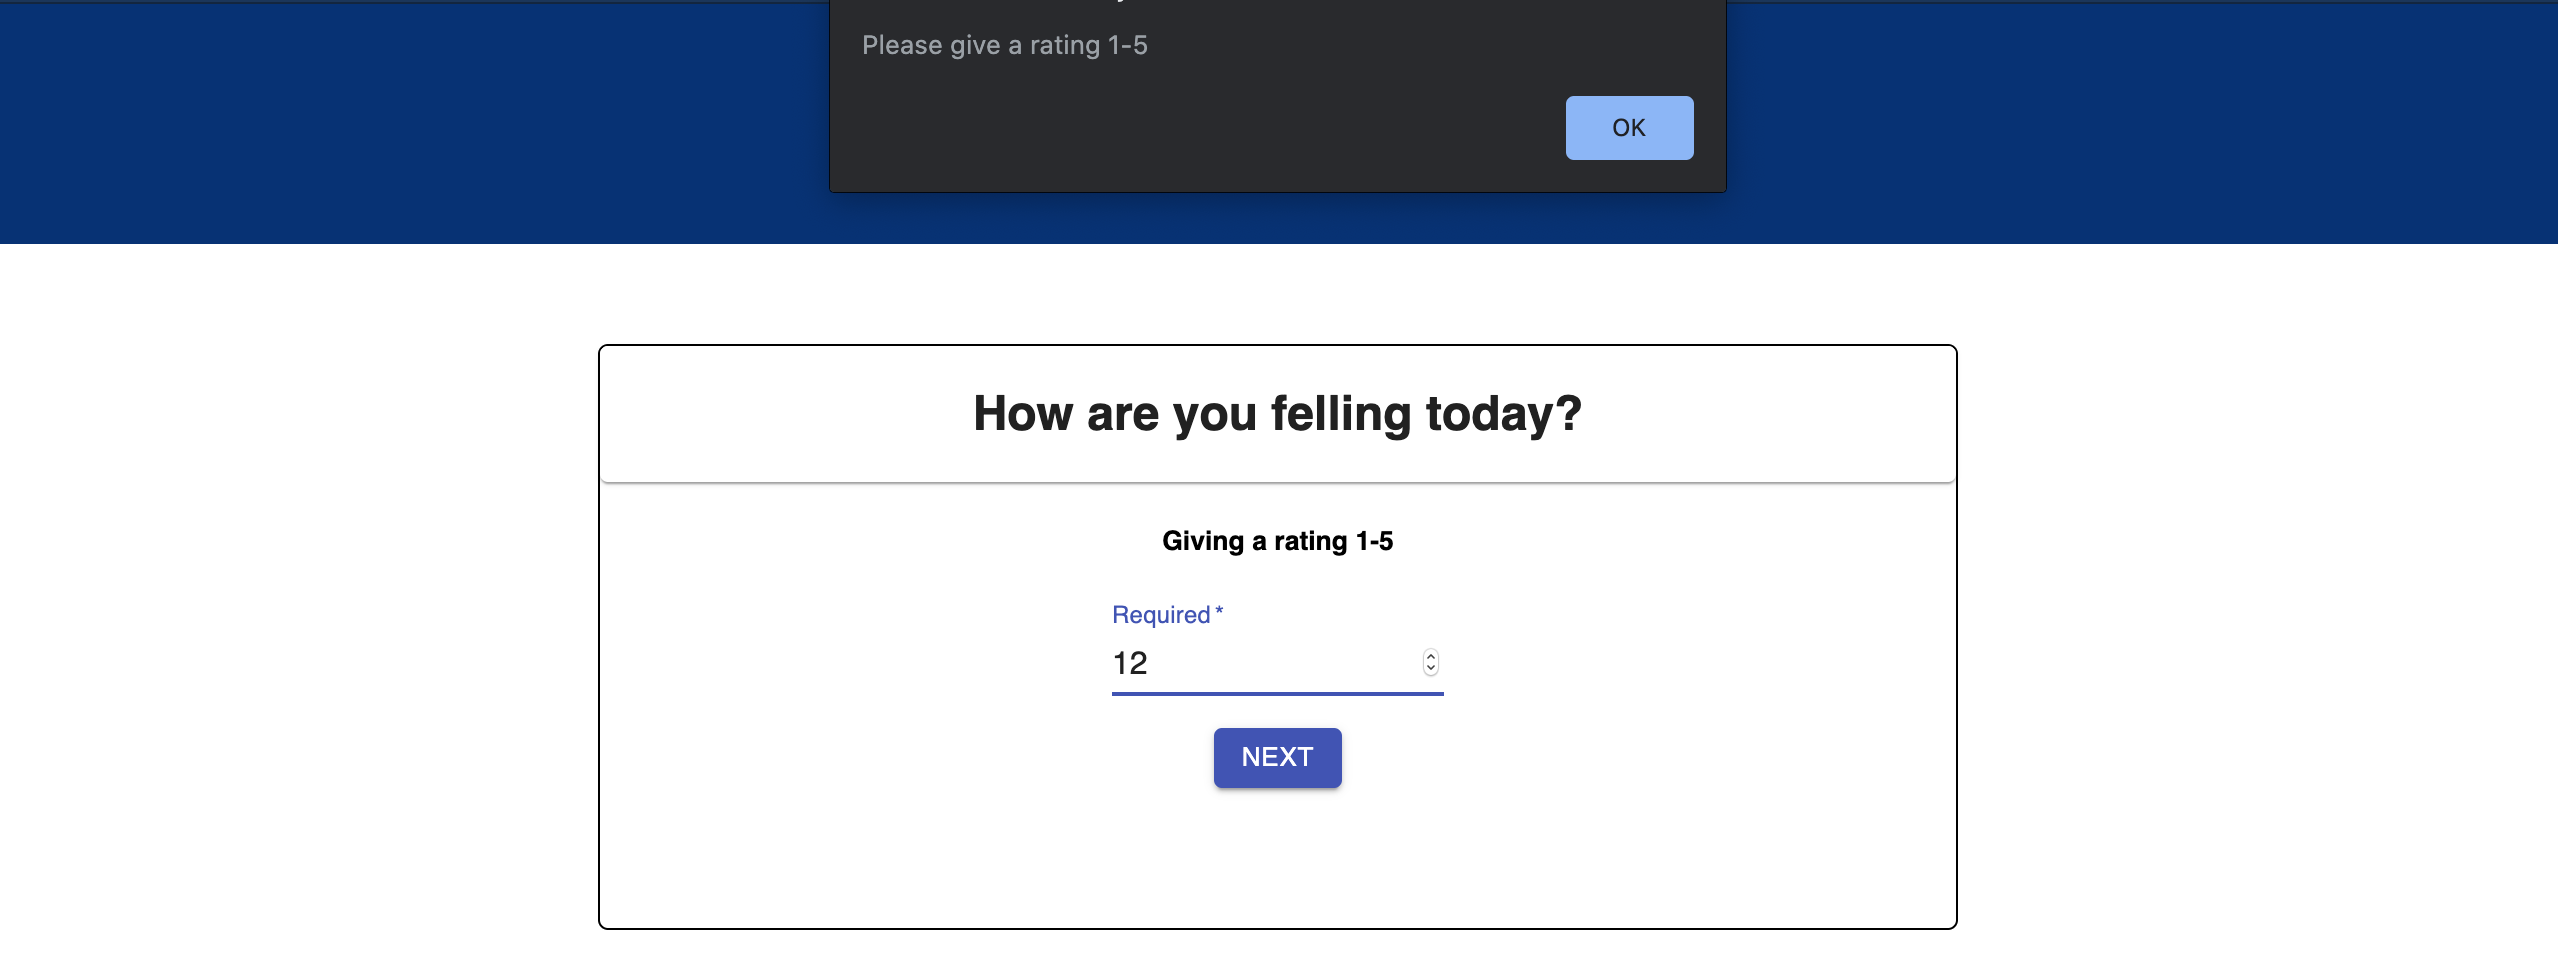
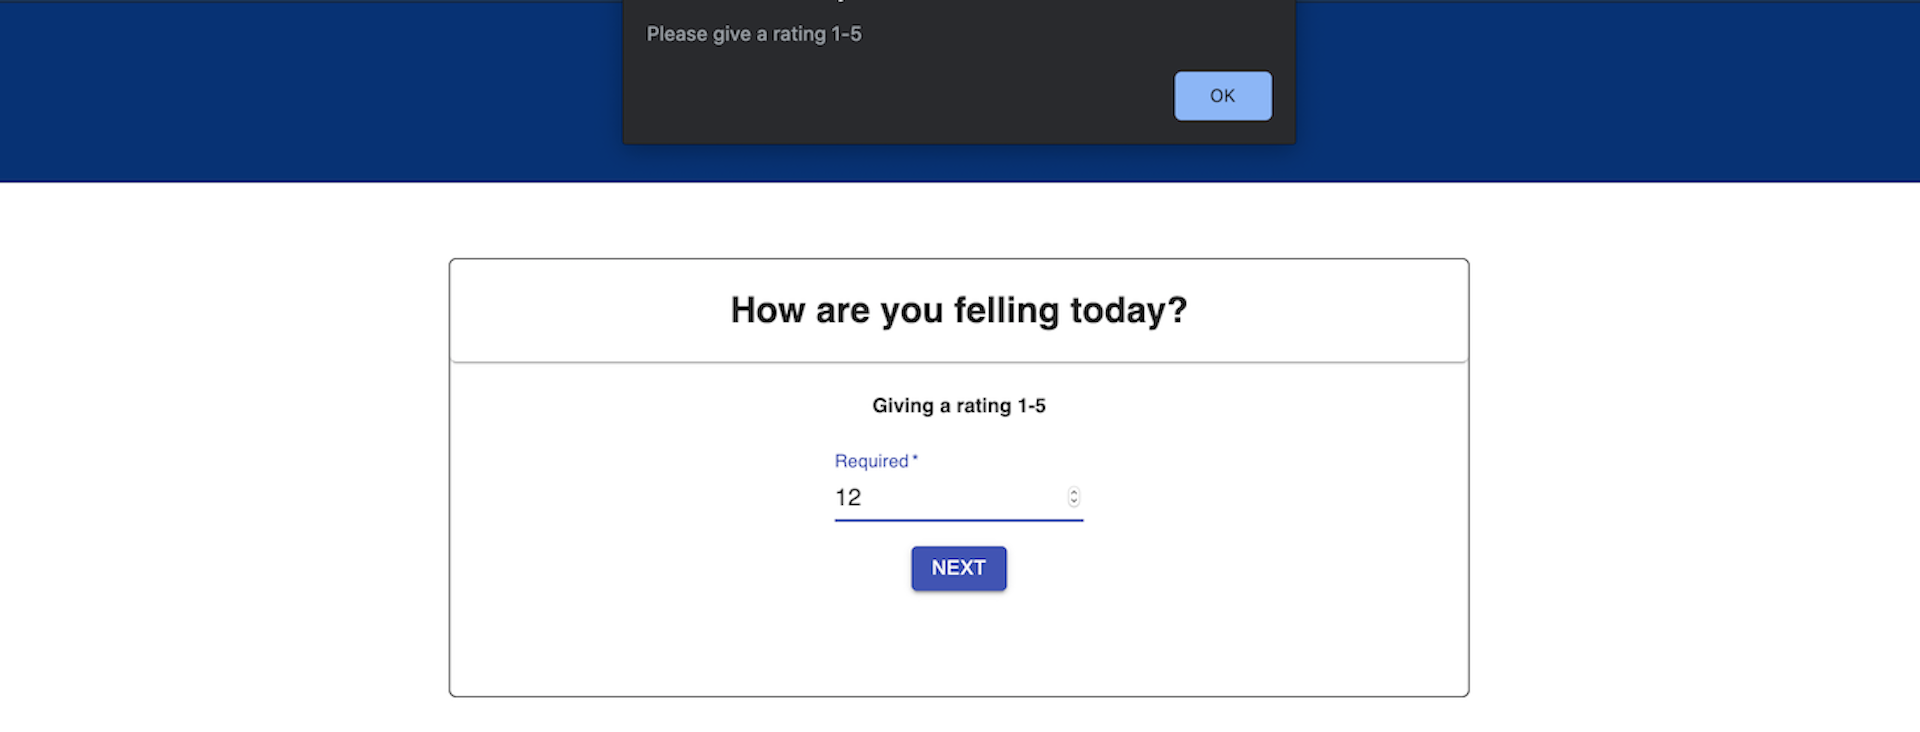
fixing screen shot

diff --git a/src/components/Rev1ew/Rev1ew.js b/src/components/Rev1ew/Rev1ew.js
@@ -25,13 +25,11 @@ class Rev1ew extends Component {
         })
         this.props.handleClearInput();
         Swal.fire({
-            title: 'Adding feedback successful!',
-            showClass: {
-              popup: 'animate__animated animate__fadeInDown'
-            },
-            hideClass: {
-              popup: 'animate__animated animate__fadeOutUp'
-            }
+            position: 'top',
+            icon: 'success',
+            title: 'Your feedback has been saved',
+            showConfirmButton: false,
+            timer: 1500
           })
           
     }

diff --git a/src/components/App/App.css b/src/components/App/App.css
@@ -23,7 +23,7 @@
   border: 1px solid black;
   border-radius: 5px;
   margin: 50px 300px;
-  padding-bottom: 70px;
+  padding-bottom: 50px;
 
 }
 
